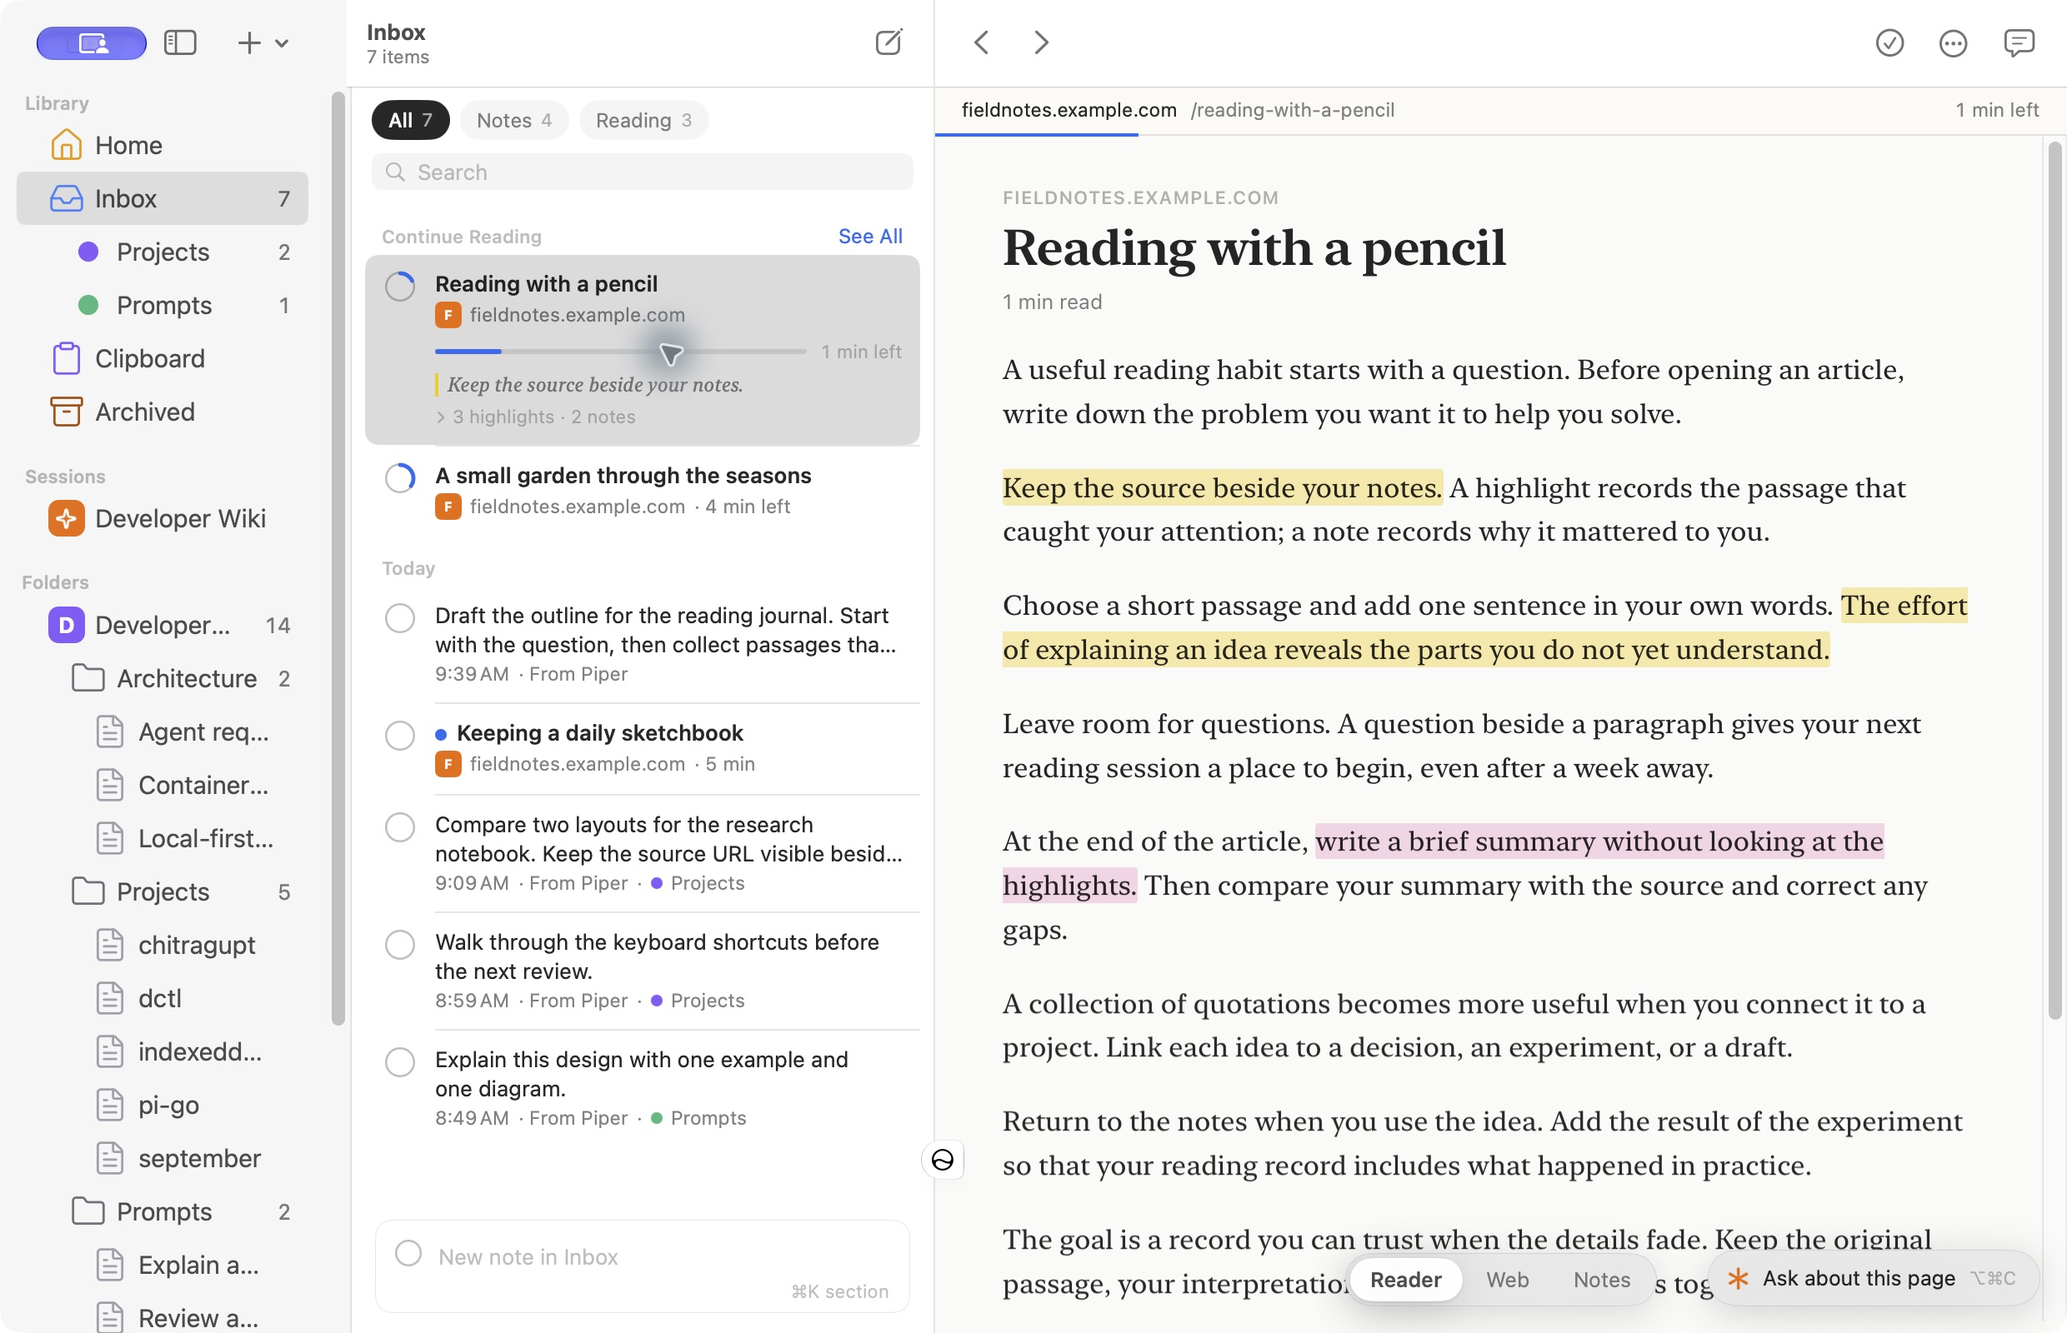
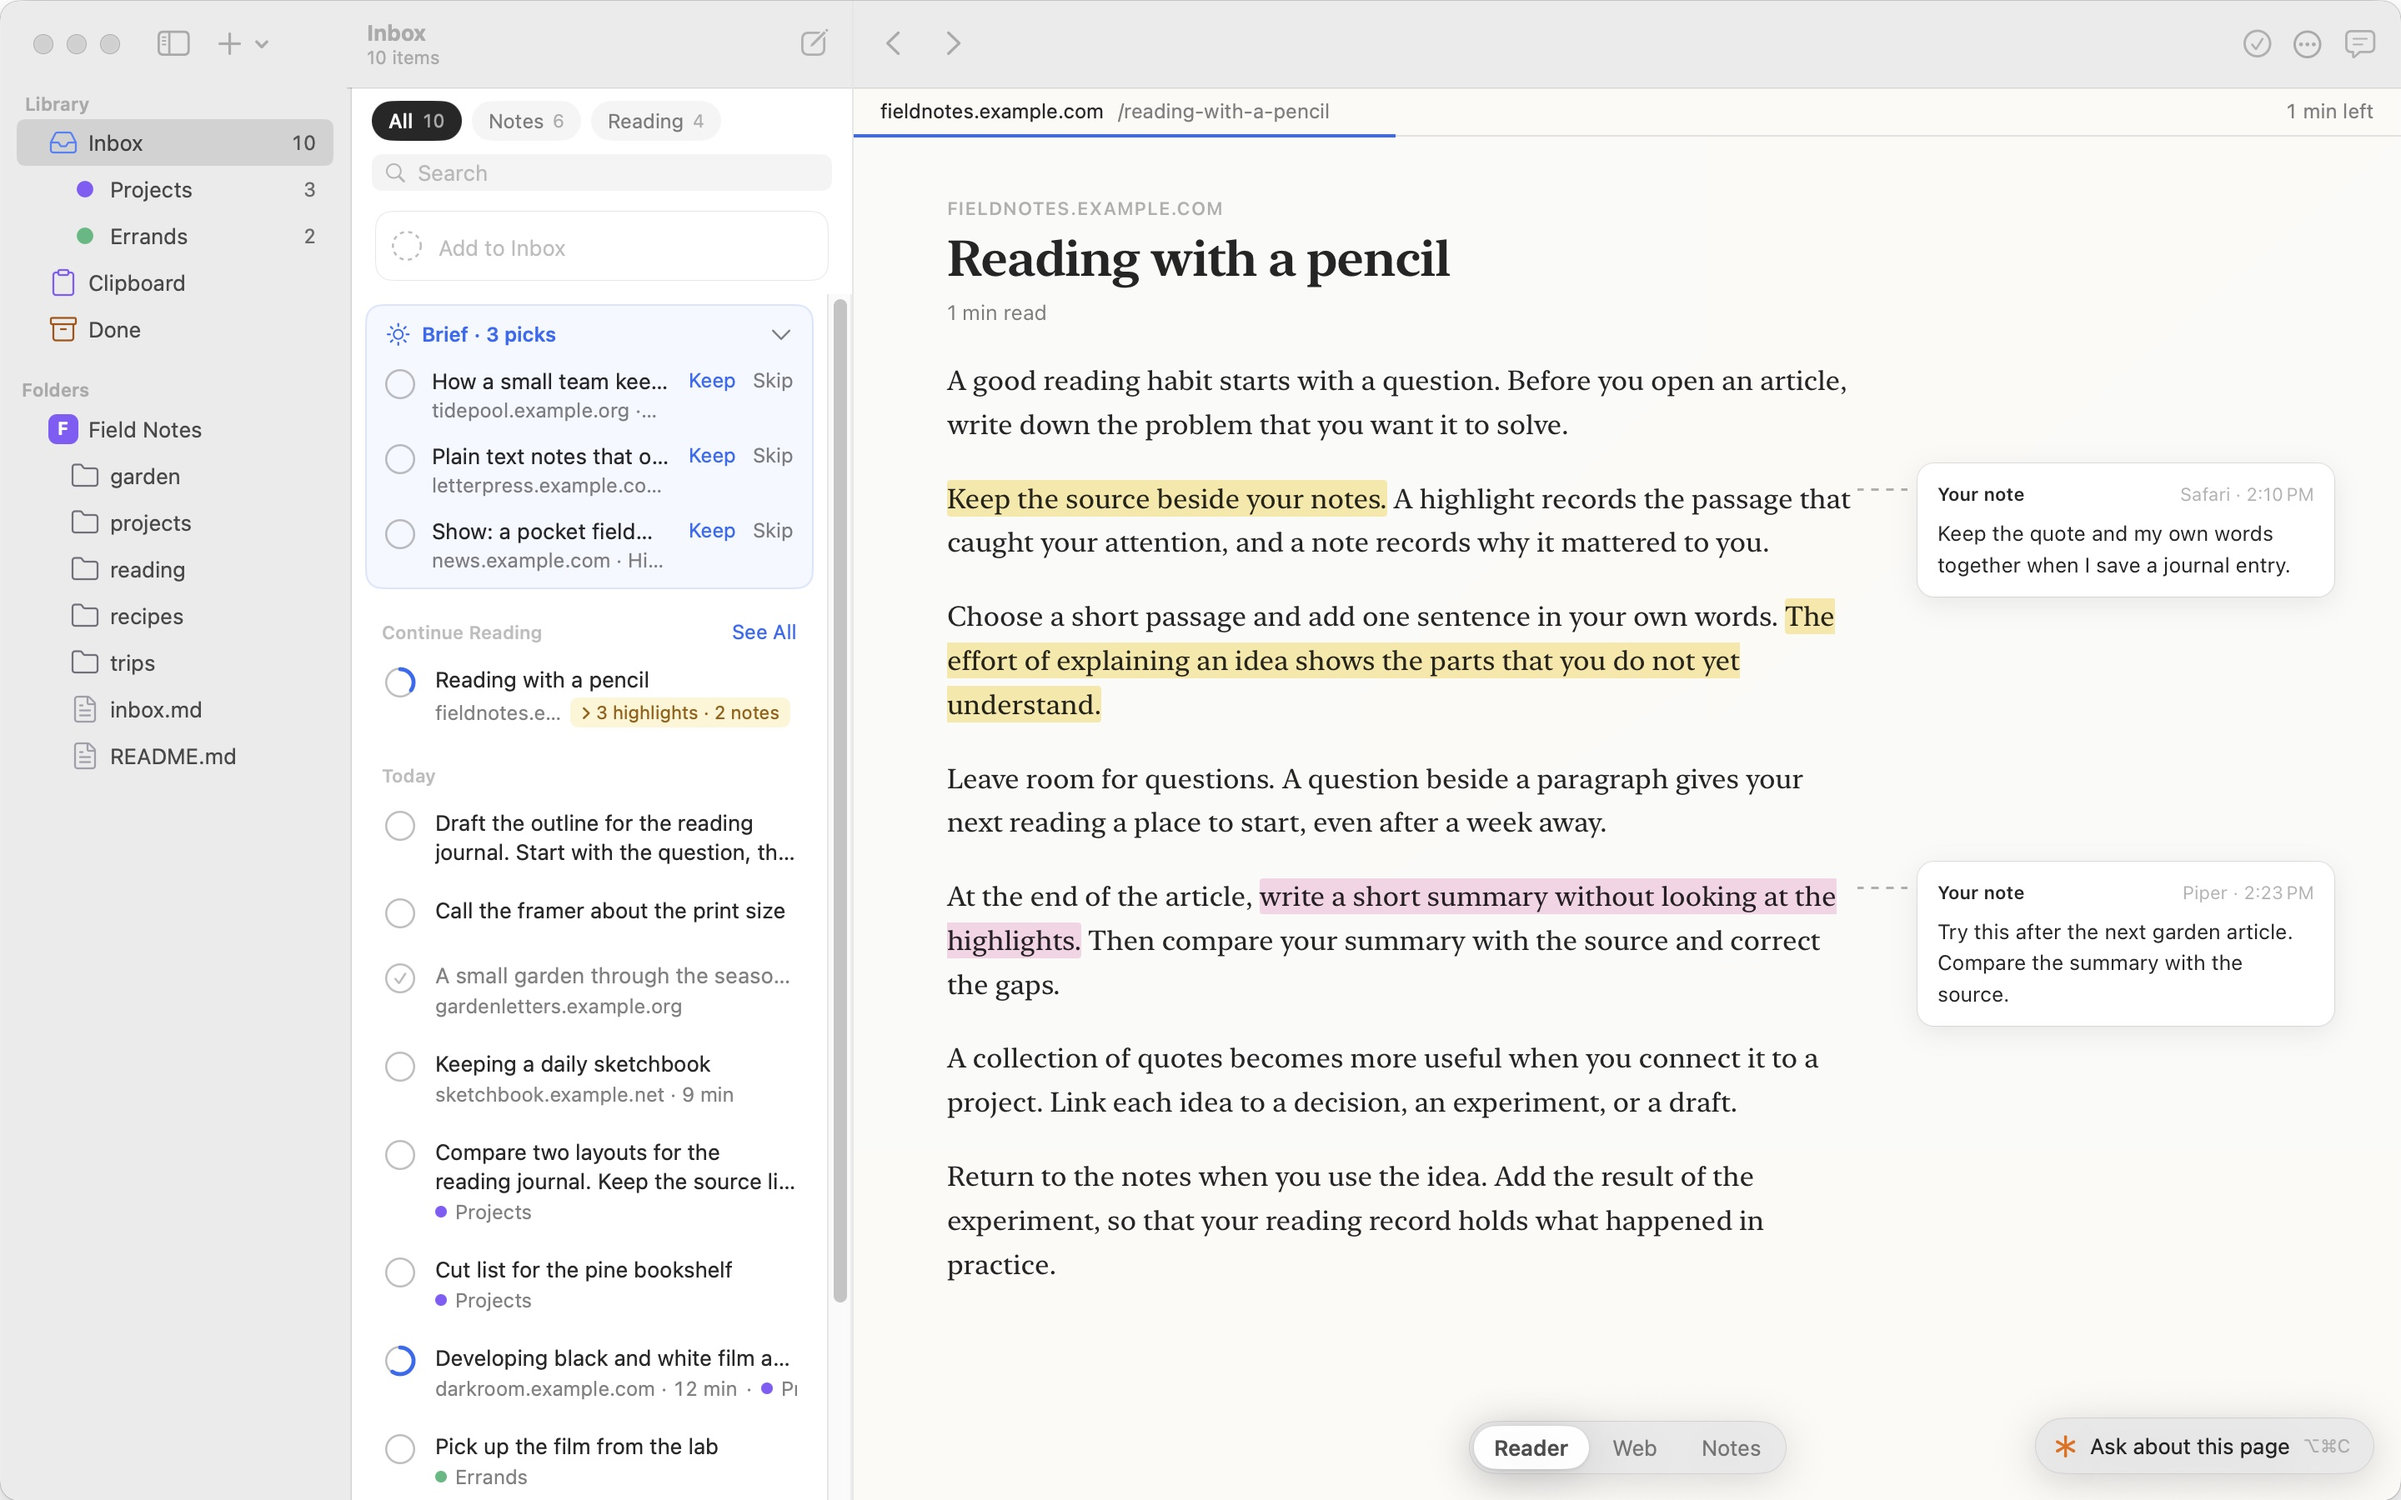
Refresh the hero and social images with fictional data
The hero shows Inbox with brief picks and the Reader tab with
highlights and margin notes. The social images use the new hero and
the new capture panel.

diff --git a/README.md b/README.md
@@ -4,7 +4,7 @@ Piper is a native macOS application for capturing text. It saves selected text a
 
 Capture and browsing need no account, cloud service, telemetry, or network connection. Notes stay in a local SQLite database. Wiki files stay on disk as they are. The web reader connects to the pages you open.
 
-![Piper Inbox with a fictional article and colored highlights in the Reader tab](docs/images/hero.jpg)
+![Piper Inbox with brief picks, and a fictional article with highlights and notes in the Reader tab](docs/images/hero.jpg)
 
 The screenshots use fictional articles, notes, and conversations in an isolated local database.
 
